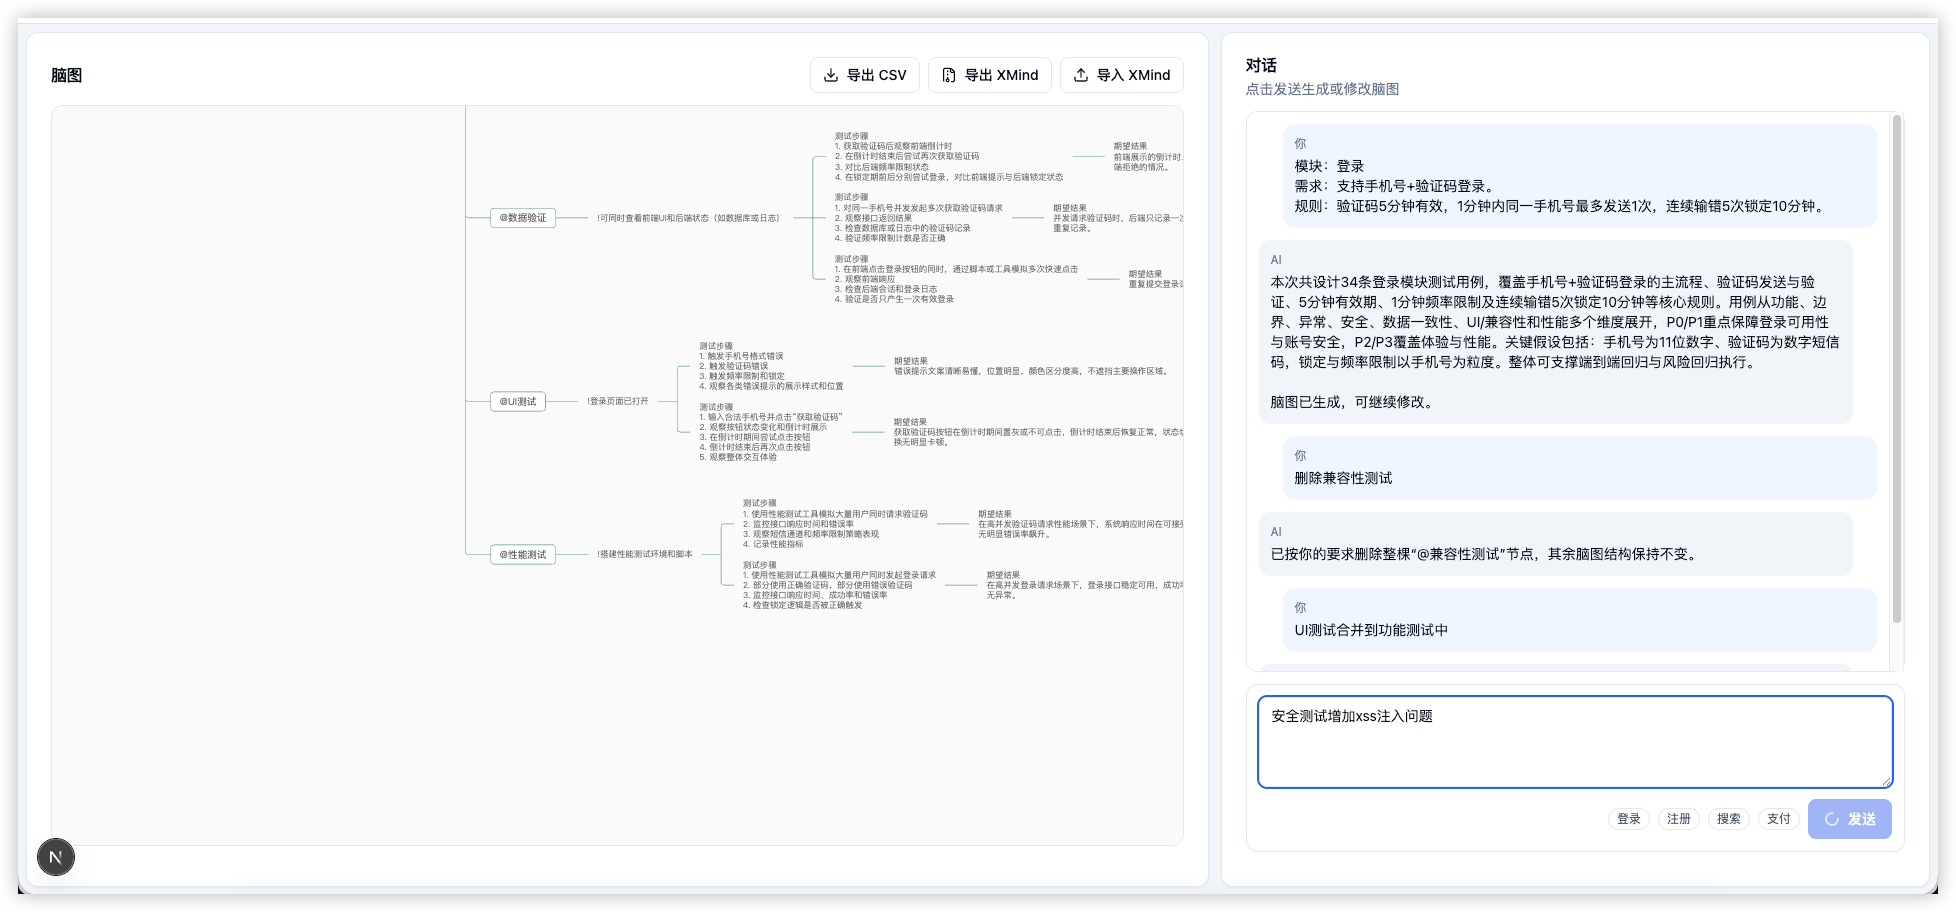
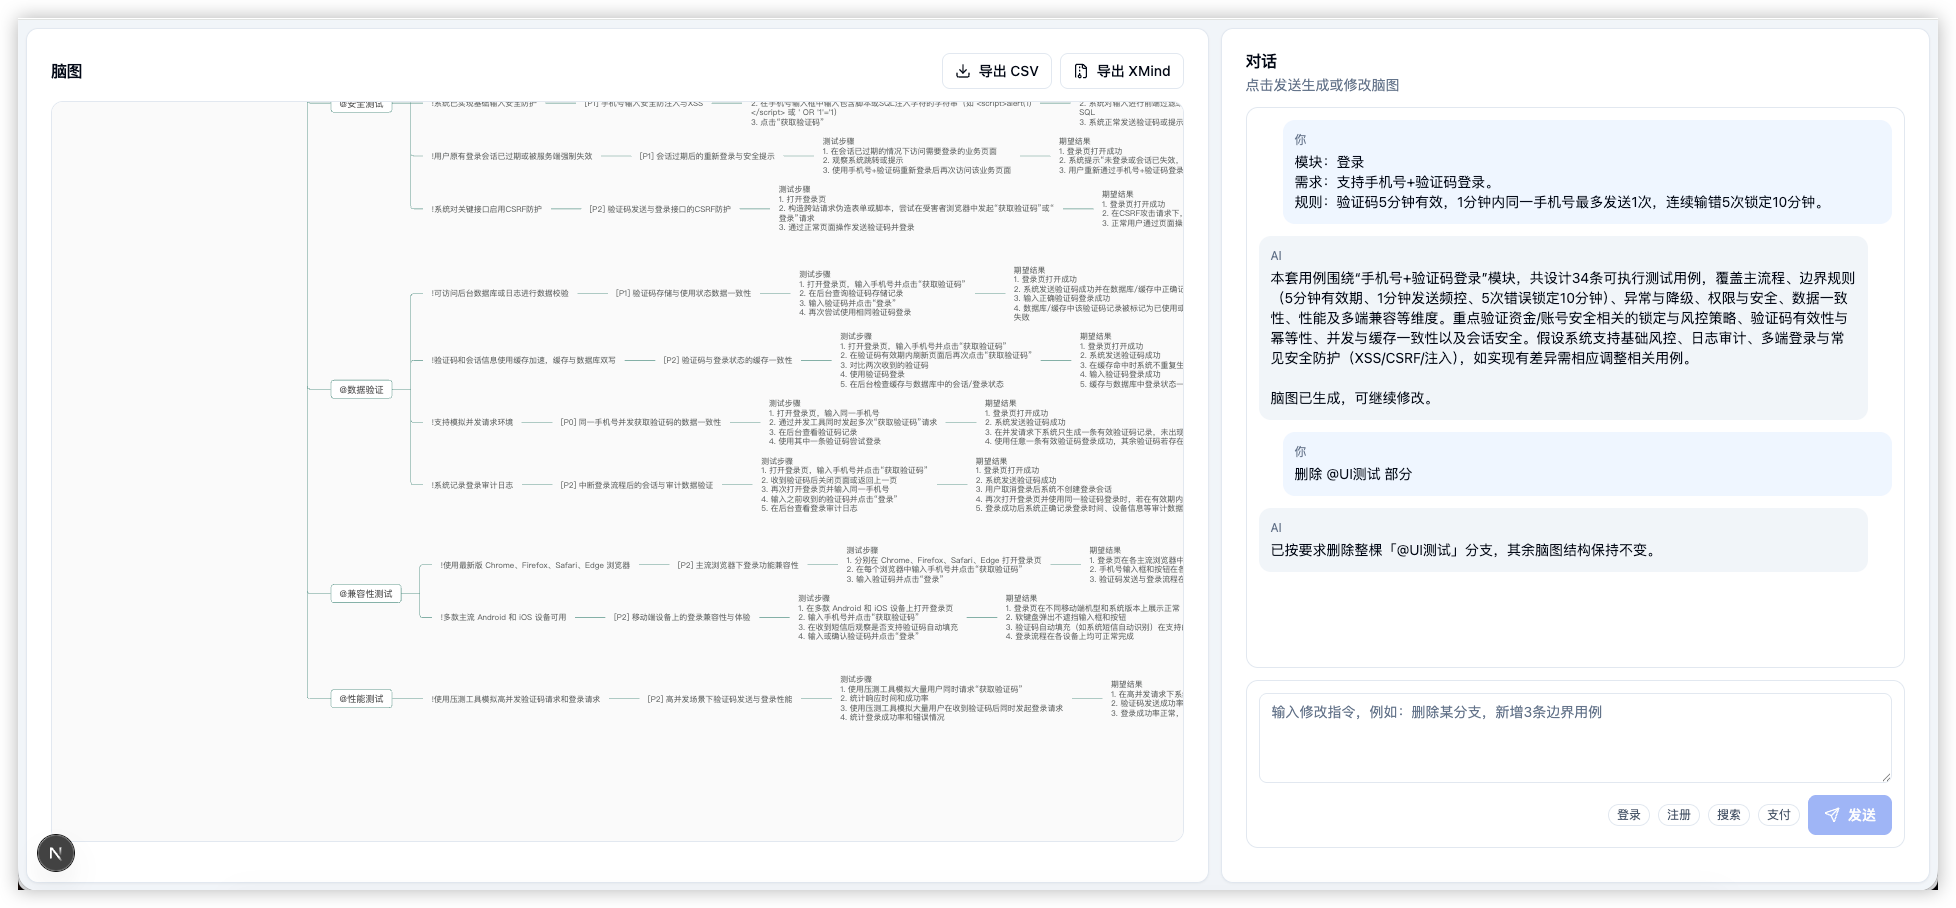
feat(mindmap): 移除 xmind 导入功能并优化导出优先级标记
- 移除 XMind 导入功能相关代码
- 更新 README 文档移除导入功能说明
- 新增解析和设置节点优先级的功能
- 实现将优先级转换为 XMind 标记的功能
- 优化导出测试用例时的优先级显示和标记
- 简化主页面组件依赖和状态管理

diff --git a/src/app/page.tsx b/src/app/page.tsx
@@ -1,7 +1,7 @@
 'use client';
 
-import { useMemo, useRef, useState, type ChangeEvent } from 'react';
-import { Download, FileArchive, Loader2, Send, Upload } from 'lucide-react';
+import { useMemo, useState } from 'react';
+import { Download, FileArchive, Loader2, Send } from 'lucide-react';
 import { MindMapView } from '@/components/mindmap/mindmap-view';
 import { Button } from '@/components/ui/button';
 import { Card, CardContent, CardDescription, CardHeader, CardTitle } from '@/components/ui/card';
@@ -51,13 +51,11 @@ function normalizeMindMap(input: unknown): MindMapNode {
 }
 
 export default function Page() {
-  const fileInputRef = useRef<HTMLInputElement | null>(null);
   const [mindMap, setMindMap] = useState<MindMapNode>(EMPTY_MAP);
   const [testCases, setTestCases] = useState<TestCaseItem[]>([]);
   const [messages, setMessages] = useState<ChatMessage[]>([]);
   const [input, setInput] = useState('');
   const [loadingChat, setLoadingChat] = useState(false);
-  const [loadingImport, setLoadingImport] = useState(false);
   const [loadingExportXmind, setLoadingExportXmind] = useState(false);
   const [error, setError] = useState<string | null>(null);
 
@@ -192,34 +190,6 @@ export default function Page() {
     }
   }
 
-  async function onImportXmind(e: ChangeEvent<HTMLInputElement>) {
-    const file = e.target.files?.[0];
-    if (!file) return;
-
-    setLoadingImport(true);
-    setError(null);
-    try {
-      const formData = new FormData();
-      formData.append('file', file);
-      const res = await fetch('/api/test-case-agent/import-xmind', {
-        method: 'POST',
-        body: formData,
-      });
-      const data = await res.json();
-      if (!res.ok) {
-        throw new Error(data?.error || '导入失败');
-      }
-      setMindMap(normalizeMindMap(data.mindMap));
-      setTestCases([]);
-      setMessages((prev) => [...prev, { role: 'assistant', content: data.summary || `已导入 ${file.name}` }]);
-    } catch (err) {
-      setError(err instanceof Error ? err.message : '导入失败');
-    } finally {
-      setLoadingImport(false);
-      e.target.value = '';
-    }
-  }
-
   function insertTemplate(content: string) {
     setInput((prev) => (prev.trim() ? `${prev}\n${content}` : content));
   }
@@ -314,11 +284,6 @@ export default function Page() {
                   )}
                   导出 XMind
                 </Button>
-                <Button variant="outline" size="sm" onClick={() => fileInputRef.current?.click()} disabled={loadingImport}>
-                  {loadingImport ? <Loader2 className="mr-2 h-4 w-4 animate-spin" /> : <Upload className="mr-2 h-4 w-4" />}
-                  导入 XMind
-                </Button>
-                <input ref={fileInputRef} type="file" accept=".xmind" className="hidden" onChange={onImportXmind} />
               </div>
             </div>
           </CardHeader>

diff --git a/src/app/api/test-case-agent/export-xmind/route.ts b/src/app/api/test-case-agent/export-xmind/route.ts
@@ -44,11 +44,40 @@ function uid() {
   return crypto.randomUUID().replace(/-/g, '').slice(0, 16);
 }
 
+function parsePriorityFromText(text: string): { cleanTitle: string; priority?: 'P0' | 'P1' | 'P2' | 'P3' } {
+  const raw = (text || '').trim();
+  const match = raw.match(/^\[?\s*(P[0-3])\s*\]?\s*[-:：]?\s*(.*)$/i);
+  if (!match) {
+    return { cleanTitle: raw };
+  }
+  const priority = match[1].toUpperCase() as 'P0' | 'P1' | 'P2' | 'P3';
+  const cleanTitle = (match[2] || '').trim() || raw;
+  return { cleanTitle, priority };
+}
+
+function toPriorityMarker(priority: 'P0' | 'P1' | 'P2' | 'P3') {
+  // XMind 任务优先级图标：1~4
+  const markerId = {
+    P0: 'priority-1',
+    P1: 'priority-2',
+    P2: 'priority-3',
+    P3: 'priority-4',
+  }[priority];
+  return markerId;
+}
+
 function toXmindTopic(node: MindMapNode): Record<string, unknown> {
+  const parsed = parsePriorityFromText(node.data.text || '未命名节点');
   const topic: Record<string, unknown> = {
     id: uid(),
-    title: node.data.text || '未命名节点',
+    title: parsed.cleanTitle || '未命名节点',
   };
+
+  if (parsed.priority) {
+    const markerId = toPriorityMarker(parsed.priority);
+    topic.markers = [{ markerId }];
+    topic.markerRefs = [markerId];
+  }
 
   if (node.children.length > 0) {
     topic.children = {
@@ -107,11 +136,13 @@ function buildRootFromCases(testCases: TestCaseItem[]) {
 
             return {
               id: sanitizeLabel(it.id) || uid(),
-              title: `[${it.priority}] ${sanitizeLabel(it.topic) || '未命名测试'}`,
+              title: sanitizeLabel(it.topic) || '未命名测试',
               priority: it.priority,
               precondition: it.precondition,
               steps: it.steps,
               expected: it.expected,
+              markers: [{ markerId: toPriorityMarker(it.priority) }],
+              markerRefs: [toPriorityMarker(it.priority)],
               children: {
                 attached: [
                   {

diff --git a/README.md b/README.md
@@ -10,7 +10,6 @@
   - 首次发送：根据输入需求生成脑图
   - 后续发送：通过对话增删改脑图
 - 输入区支持模板 tag（登录/注册/搜索/支付）快速插入需求
-- 支持导入 `.xmind`（读取 `content.json`）并加载到脑图
 - 支持导出 `.xmind`（可在 XMind 中继续编辑）
 - 支持导出 CSV（测试用例标准列）
 
@@ -20,9 +19,21 @@
 
 ![生成脑图](doc/img/生成.png)
 
+### 部分用例展示
+
+![部分用例展示](doc/img/部分用例展示.png)
+
 ### 对话修改脑图
 
 ![对话修改脑图](doc/img/修改.png)
+
+### 导出 CSV
+
+![导出 CSV](doc/img/导出csv.png)
+
+### 导出 XMind
+
+![导出 XMind](doc/img/导出xmind.png)
 
 ## 技术栈
 
@@ -64,7 +75,6 @@ CSV 使用 UTF-8 BOM，列固定为：
 - `src/app/page.tsx`: 主界面（左脑图 + 右对话）
 - `src/app/api/test-case-agent/route.ts`: 首次生成 API
 - `src/app/api/test-case-agent/chat/route.ts`: 连续对话更新脑图 API
-- `src/app/api/test-case-agent/import-xmind/route.ts`: 导入 XMind API
 - `src/app/api/test-case-agent/export-xmind/route.ts`: 导出 XMind API
 - `src/lib/agent/testCaseAgent.ts`: LangChain 生成逻辑
 - `src/components/mindmap/mindmap-view.tsx`: simple-mind-map 渲染
